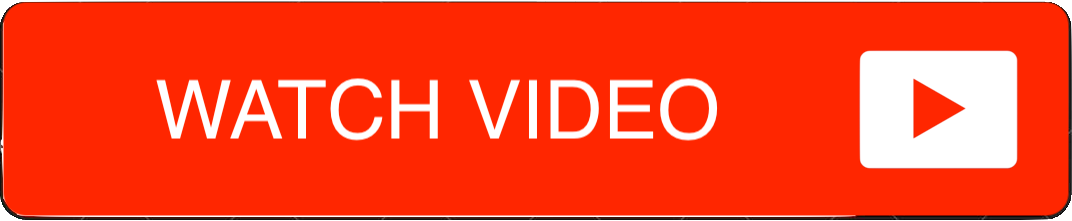
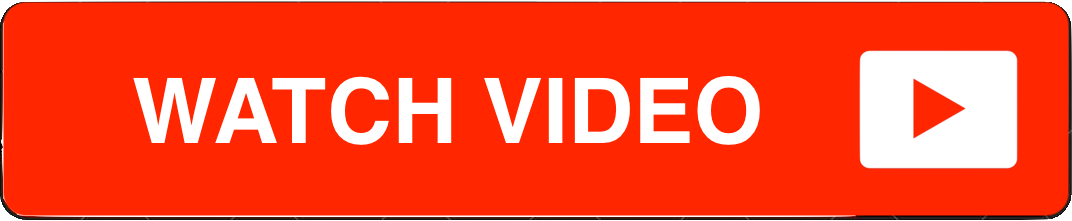
added video buttons

Changed region(s): [[0.1231, 0.3258, 0.708, 0.6516]]

diff --git a/docs/README.md b/docs/README.md
@@ -135,6 +135,8 @@ function Todos() {
 }
 ```
 
+<a target="_blank" rel="noopener noreferrer" href='XXXXXXX'><img  width='150px' height='30px' src='https://codesandbox.io/static/img/play-codesandbox.svg' /></a>  <a target="_blank" rel="noopener noreferrer" href='XXXXXXX'><img  width='150px' height='30px' src='https://github.com/ava/use-http/raw/master/public/watch-youtube-video.png' /></a>
+
 Managed State Usage
 -------------------
 
@@ -178,6 +180,8 @@ function Todos() {
 }
 ```
 
+<a target="_blank" rel="noopener noreferrer" href='XXXXXXX'><img  width='150px' height='30px' src='https://codesandbox.io/static/img/play-codesandbox.svg' /></a>  <a target="_blank" rel="noopener noreferrer" href='XXXXXXX'><img  width='150px' height='30px' src='https://github.com/ava/use-http/raw/master/public/watch-youtube-video.png' /></a>
+
 Basic Usage With Provider (auto managed state)
 ---------------------------------------------
 
@@ -208,7 +212,8 @@ const App = () => (
 )
 ```
 
-[![Edit Basic Example](https://codesandbox.io/static/img/play-codesandbox.svg)](https://codesandbox.io/s/usefetch-with-provider-c78w2)
+<a target="_blank" rel="noopener noreferrer" href='https://codesandbox.io/s/usefetch-with-provider-c78w2'><img  width='150px' height='30px' src='https://codesandbox.io/static/img/play-codesandbox.svg' /></a>  <a target="_blank" rel="noopener noreferrer" href='XXXXXXX'><img  width='150px' height='30px' src='https://github.com/ava/use-http/raw/master/public/watch-youtube-video.png' /></a>
+
 
 Suspense Mode (auto managed state)
 ----------------------------------
@@ -240,7 +245,7 @@ function App() {
 }
 ```
 
-[![Edit Basic Example](https://codesandbox.io/static/img/play-codesandbox.svg)]()
+<a target="_blank" rel="noopener noreferrer" href='XXXXXXX'><img  width='150px' height='30px' src='https://codesandbox.io/static/img/play-codesandbox.svg' /></a>  <a target="_blank" rel="noopener noreferrer" href='XXXXXXX'><img  width='150px' height='30px' src='https://github.com/ava/use-http/raw/master/public/watch-youtube-video.png' /></a>
 
 Suspense Mode (managed state)
 -----------------------------
@@ -283,8 +288,6 @@ function App() {
 }
 ```
 
-[![Edit Basic Example](https://codesandbox.io/static/img/play-codesandbox.svg)]()
-
 Pagination With Provider
 ---------------------------
 
@@ -321,7 +324,7 @@ const App = () => (
 )
 ```
 
-[![Edit Basic Example](https://codesandbox.io/static/img/play-codesandbox.svg)](https://codesandbox.io/s/usefetch-provider-pagination-exttg)
+<a target="_blank" rel="noopener noreferrer" href='https://codesandbox.io/s/usefetch-provider-pagination-exttg'><img  width='150px' height='30px' src='https://codesandbox.io/static/img/play-codesandbox.svg' /></a>  <a target="_blank" rel="noopener noreferrer" href='XXXXXXX'><img  width='150px' height='30px' src='https://github.com/ava/use-http/raw/master/public/watch-youtube-video.png' /></a>
 
 Destructured
 -------------
@@ -404,6 +407,8 @@ request.post('/todos', {
 })
 ```
 
+<a target="_blank" rel="noopener noreferrer" href='XXXXXXX'><img  width='150px' height='30px' src='https://codesandbox.io/static/img/play-codesandbox.svg' /></a>  <a target="_blank" rel="noopener noreferrer" href='XXXXXXX'><img  width='150px' height='30px' src='https://github.com/ava/use-http/raw/master/public/watch-youtube-video.png' /></a>
+
 Abort
 -----
 
@@ -425,6 +430,8 @@ const searchGithubRepos = e => githubRepos.get(encodeURI(e.target.value))
   ))}
 </>
 ```
+
+<a target="_blank" rel="noopener noreferrer" href='XXXXXXX'><img  width='150px' height='30px' src='https://codesandbox.io/static/img/play-codesandbox.svg' /></a>  <a target="_blank" rel="noopener noreferrer" href='XXXXXXX'><img  width='150px' height='30px' src='https://github.com/ava/use-http/raw/master/public/watch-youtube-video.png' /></a>
 
 Request/Response Interceptors with `Provider`
 ---------------------------------------------
@@ -469,7 +476,7 @@ function App() {
 
 ```
 
-[![Edit Basic Example](https://codesandbox.io/static/img/play-codesandbox.svg)](https://codesandbox.io/s/usefetch-provider-requestresponse-interceptors-s1lex)
+<a target="_blank" rel="noopener noreferrer" href='https://codesandbox.io/s/usefetch-provider-requestresponse-interceptors-s1lex'><img  width='150px' height='30px' src='https://codesandbox.io/static/img/play-codesandbox.svg' /></a>  <a target="_blank" rel="noopener noreferrer" href='XXXXXXX'><img  width='150px' height='30px' src='https://github.com/ava/use-http/raw/master/public/watch-youtube-video.png' /></a>
 
 File Upload (FormData)
 ----------------------
@@ -530,6 +537,7 @@ const App = () => {
 }
 ```
 
+<a target="_blank" rel="noopener noreferrer" href='XXXXXXX'><img  width='150px' height='30px' src='https://codesandbox.io/static/img/play-codesandbox.svg' /></a>  <a target="_blank" rel="noopener noreferrer" href='XXXXXXX'><img  width='150px' height='30px' src='https://github.com/ava/use-http/raw/master/public/watch-youtube-video.png' /></a>
 [![Edit Basic Example](https://codesandbox.io/static/img/play-codesandbox.svg)](https://codesandbox.io/s/usefetch-different-response-types-c6csw)
 
 Overwrite/Remove Options/Headers Set in Provider
@@ -611,7 +619,7 @@ const TestRetry = () => {
 }
 ```
 
-[![Edit Basic Example](https://codesandbox.io/static/img/play-codesandbox.svg)](https://codesandbox.io/s/usefetch-retryon-retrydelay-s74q9)
+<a target="_blank" rel="noopener noreferrer" href='https://codesandbox.io/s/usefetch-retryon-retrydelay-s74q9'><img  width='150px' height='30px' src='https://codesandbox.io/static/img/play-codesandbox.svg' /></a>  <a target="_blank" rel="noopener noreferrer" href='XXXXXXX'><img  width='150px' height='30px' src='https://github.com/ava/use-http/raw/master/public/watch-youtube-video.png' /></a>
 
 GraphQL Query
 ---------------
@@ -703,7 +711,7 @@ function QueryComponent() {
 }
 ```
 
-[![Edit Basic Example](https://codesandbox.io/static/img/play-codesandbox.svg)](https://codesandbox.io/s/graphql-usequery-provider-uhdmj)
+<a target="_blank" rel="noopener noreferrer" href='https://codesandbox.io/s/graphql-usequery-provider-uhdmj'><img  width='150px' height='30px' src='https://codesandbox.io/static/img/play-codesandbox.svg' /></a>
 
 useMutation (add a new todo)
 -------------------

diff --git a/README.md b/README.md
@@ -136,6 +136,9 @@ function Todos() {
   )
 }
 ```
+
+ <a target="_blank" rel="noopener noreferrer" href=''><img  width='150px' height='30px' src='./public/watch-youtube-video.png' /></a>
+
 </details>
 
 <details><summary><b>Basic Usage (auto managed state) <code>useFetch</code></b></summary>
@@ -164,6 +167,9 @@ function Todos() {
   )
 }
 ```
+
+<a target="_blank" rel="noopener noreferrer" href=''><img  width='150px' height='30px' src='./public/watch-youtube-video.png' /></a>
+
 </details>
 
 
@@ -196,7 +202,7 @@ const App = () => (
 )
 ```
 
-[![Edit Basic Example](https://codesandbox.io/static/img/play-codesandbox.svg)](https://codesandbox.io/s/usefetch-with-provider-c78w2)
+<a target="_blank" rel="noopener noreferrer" href='https://codesandbox.io/s/usefetch-with-provider-c78w2'><img  width='150px' height='30px' src='https://codesandbox.io/static/img/play-codesandbox.svg' /></a>  <a target="_blank" rel="noopener noreferrer" href=''><img  width='150px' height='30px' src='./public/watch-youtube-video.png' /></a>
 
 </details>
 
@@ -231,7 +237,7 @@ function App() {
 }
 ```
 
-[![Edit Basic Example](https://codesandbox.io/static/img/play-codesandbox.svg)]()
+<a target="_blank" rel="noopener noreferrer" href='https://codesandbox.io/s/usefetch-suspense-i22wv'><img  width='150px' height='30px' src='https://codesandbox.io/static/img/play-codesandbox.svg' /></a>  <a target="_blank" rel="noopener noreferrer" href=''><img  width='150px' height='30px' src='./public/watch-youtube-video.png' /></a>
 
 </details>
 
@@ -340,7 +346,8 @@ const App = () => (
 )
 ```
 
-[![Edit Basic Example](https://codesandbox.io/static/img/play-codesandbox.svg)](https://codesandbox.io/s/usefetch-provider-pagination-exttg)
+<a target="_blank" rel="noopener noreferrer" href='https://codesandbox.io/s/usefetch-suspense-i22wv'><img  width='150px' height='30px' src='https://codesandbox.io/static/img/play-codesandbox.svg' /></a>  <a target="_blank" rel="noopener noreferrer" href=''><img  width='150px' height='30px' src='./public/watch-youtube-video.png' /></a>
+
 
 </details>
 
@@ -409,6 +416,7 @@ var {
 } = request
 ```
 
+<a target="_blank" rel="noopener noreferrer" href=''><img  width='150px' height='30px' src='./public/watch-youtube-video.png' /></a>
 </details>
 
 
@@ -426,6 +434,7 @@ request.post('/todos', {
 ```
 </details>
 
+<a target="_blank" rel="noopener noreferrer" href=''><img  width='150px' height='30px' src='./public/watch-youtube-video.png' /></a>
 
 <details><summary><b>Abort <code>useFetch</code></b></summary>
 
@@ -448,6 +457,9 @@ const searchGithubRepos = e => githubRepos.get(encodeURI(e.target.value))
   ))}
 </>
 ```
+
+<a target="_blank" rel="noopener noreferrer" href=''><img  width='150px' height='30px' src='./public/watch-youtube-video.png' /></a>
+
 </details>
 
 
@@ -545,6 +557,7 @@ export default function QueryComponent() {
 }
 ```
 [![Edit Basic Example](https://codesandbox.io/static/img/play-codesandbox.svg)](https://codesandbox.io/s/graphql-usequery-provider-uhdmj)
+
 
 ##### Add a new todo
 ```jsx
@@ -649,7 +662,9 @@ function App() {
 }
 
 ```
-[![Edit Basic Example](https://codesandbox.io/static/img/play-codesandbox.svg)](https://codesandbox.io/s/usefetch-provider-requestresponse-interceptors-s1lex)
+
+<a target="_blank" rel="noopener noreferrer" href='https://codesandbox.io/s/usefetch-provider-requestresponse-interceptors-s1lex'><img  width='150px' height='30px' src='https://codesandbox.io/static/img/play-codesandbox.svg' /></a>  <a target="_blank" rel="noopener noreferrer" href=''><img  width='150px' height='30px' src='./public/watch-youtube-video.png' /></a>
+
 </details>
 
 <details id='form-data'><summary><b>File Uploads (FormData)</b></summary>
@@ -709,7 +724,8 @@ const App = () => {
   )
 }
 ```
-[![Edit Basic Example](https://codesandbox.io/static/img/play-codesandbox.svg)](https://codesandbox.io/s/usefetch-different-response-types-c6csw)
+
+<a target="_blank" rel="noopener noreferrer" href='https://codesandbox.io/s/usefetch-different-response-types-c6csw'><img  width='150px' height='30px' src='https://codesandbox.io/static/img/play-codesandbox.svg' /></a>  <a target="_blank" rel="noopener noreferrer" href=''><img  width='150px' height='30px' src='./public/watch-youtube-video.png' /></a>
 
 </details>
 
@@ -792,7 +808,7 @@ const TestRetry = () => {
 }
 ```
 
-[![Edit Basic Example](https://codesandbox.io/static/img/play-codesandbox.svg)](https://codesandbox.io/s/usefetch-retryon-retrydelay-s74q9)
+<a target="_blank" rel="noopener noreferrer" href='https://codesandbox.io/s/usefetch-retryon-retrydelay-s74q9'><img  width='150px' height='30px' src='https://codesandbox.io/static/img/play-codesandbox.svg' /></a>  <a target="_blank" rel="noopener noreferrer" href=''><img  width='150px' height='30px' src='./public/watch-youtube-video.png' /></a>
 
 </details>
 
@@ -1012,6 +1028,9 @@ Todos
     // by attempting to extract it via these body interface
     // methods, one by one in this order
     responseType: ['json', 'text', 'blob', 'formData', 'arrayBuffer'],
+    // by default this is true, but if set to false
+    // then we default to the responseType array of trying 'json' first, then 'text', etc.
+    responseTypeGuessing: true,
     // ALSO, maybe there's a way to guess the proper `body interface method` for the correct response content-type.
     // here's a stackoverflow with someone who's tried: https://bit.ly/2X8iaVG
 
